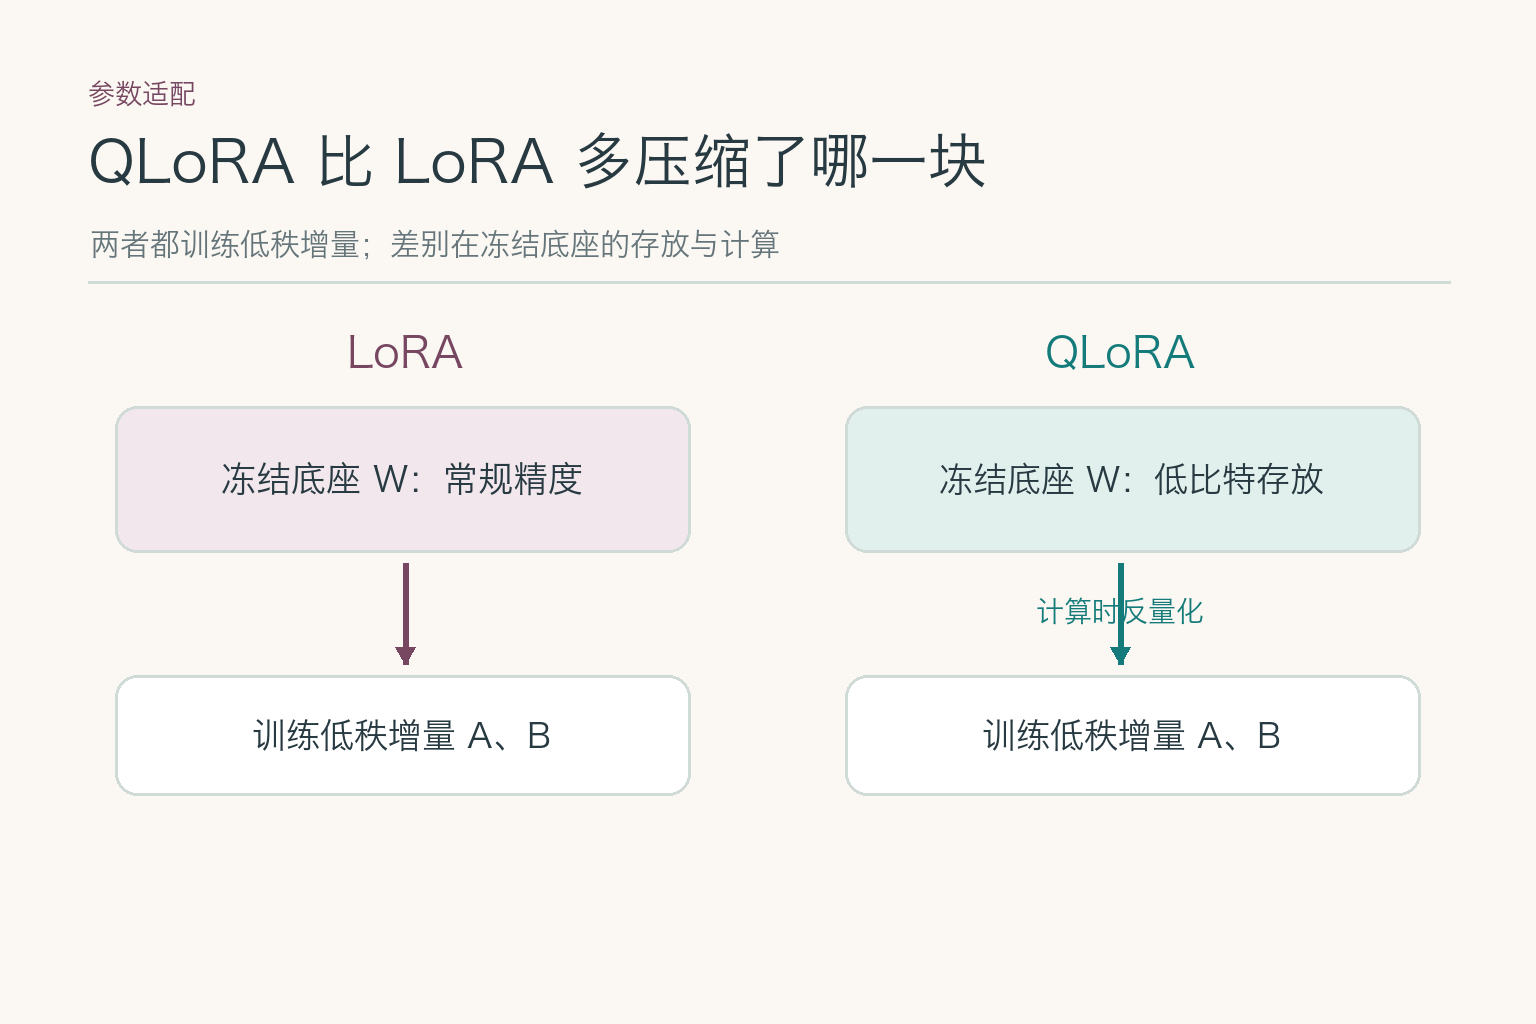
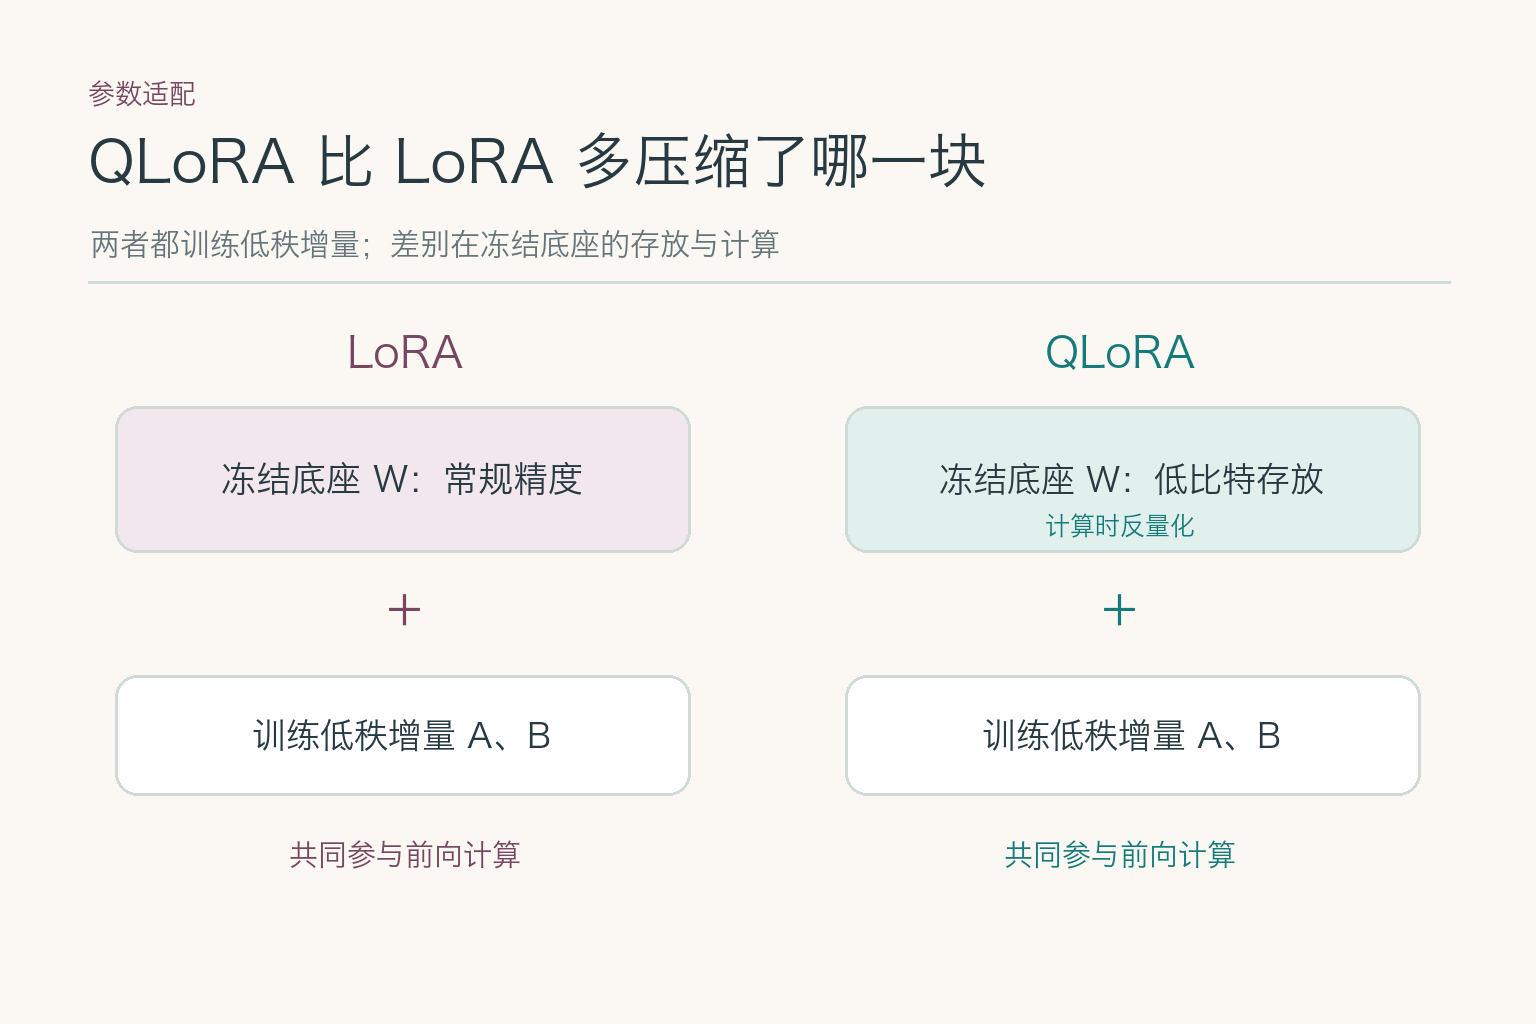
Clarify QLoRA diagram computation paths

diff --git a/scripts/render-foundation-figure-fixes.py b/scripts/render-foundation-figure-fixes.py
@@ -441,9 +441,11 @@ def adaptation_qlora_comparison():
     box(d, (845, 406, 1420, 552), "冻结底座 W：低比特存放", TEAL_PALE, 34)
     box(d, (115, 675, 690, 795), "训练低秩增量 A、B", "#FFFFFF", 34)
     box(d, (845, 675, 1420, 795), "训练低秩增量 A、B", "#FFFFFF", 34)
-    arrow(d, (405, 563), (405, 664), PLUM)
-    arrow(d, (1120, 563), (1120, 664), TEAL)
-    label(d, (1120, 611), "计算时反量化", 28, TEAL, "mm")
+    label(d, (405, 610), "＋", 45, PLUM, "mm")
+    label(d, (1120, 610), "＋", 45, TEAL, "mm")
+    label(d, (1120, 525), "计算时反量化", 25, TEAL, "mm")
+    label(d, (405, 855), "共同参与前向计算", 29, PLUM, "mm")
+    label(d, (1120, 855), "共同参与前向计算", 29, TEAL, "mm")
     save(im, "submodules/05-adaptation/assets/adaptation-qlora-comparison.png")
 
 
